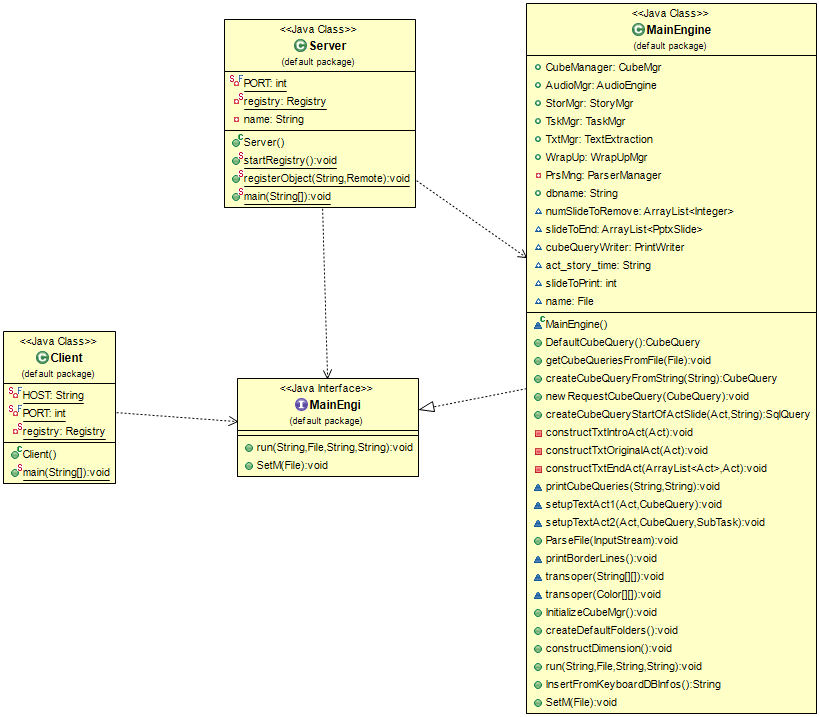
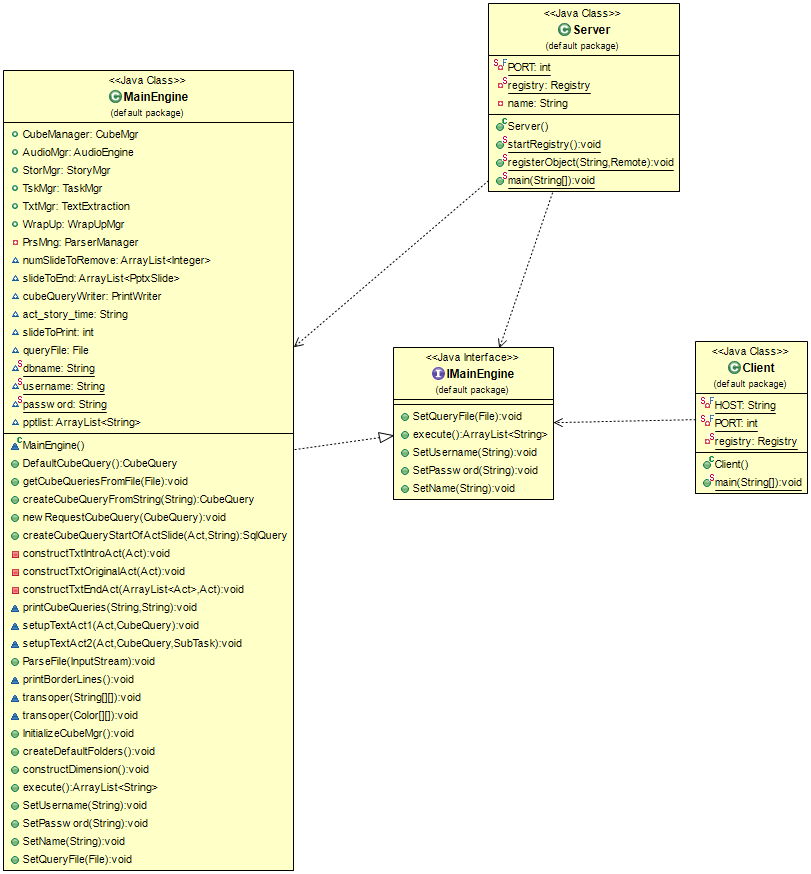
Changes on client server MainEngine and Interface

diff --git a/src/MainEngine.java b/src/MainEngine.java
@@ -41,7 +41,7 @@ import WrapUpMgr.PptxWrapUpMgr;
 import WrapUpMgr.WrapUpMgr;
 
 public class MainEngine extends UnicastRemoteObject implements
-MainEngi {
+IMainEngine {
     
 	
 	public CubeMgr CubeManager;
@@ -51,14 +51,19 @@ MainEngi {
 	public TextExtraction TxtMgr;
 	public WrapUpMgr WrapUp;
 	private ParserManager PrsMng;
-	public String dbname;
 	ArrayList<Integer> numSlideToRemove=new ArrayList<Integer>();
 	ArrayList<PptxSlide> slideToEnd=new ArrayList<PptxSlide>();
 	PrintWriter cubeQueryWriter;
 	String act_story_time;
 	int slideToPrint=0;
 	
-	File name;
+	
+	
+	File queryFile; //File with one or more queries
+	static String dbname; //Database Name
+    static String username;//Database username
+    static String password ;//Database password
+    ArrayList<String> pptlist = new ArrayList<String>();
    
 
 	
@@ -459,6 +464,9 @@ MainEngi {
         /*======== Set The Filename For PPTX ==========================*/
         StorMgr.getStory().setFinalResult(new PptxSlideshow());
         StorMgr.getStory().getFinalResult().setFilename("ppt/"+cubequery.name+".pptx");
+        
+        String pptpath = "ppt/"+cubequery.name+".pptx"; //PowerPoint path for query
+        pptlist.add(pptpath);
         
         /*======== Stat The Wrap UP ==========================*/
         WrapUp=new PptxWrapUpMgr();
@@ -1566,31 +1574,56 @@ MainEngi {
         this.ParseFile(getClass().getClassLoader().getResourceAsStream("resources/beta.txt"));/*Create Dimension,Cube*/
     }
     
-    public void run(String dbname,File f,String username,String password) throws RemoteException {
-        MainEngine MainEng=new MainEngine();
-        MainEng.InitializeCubeMgr();
-        MainEng.createDefaultFolders();
-        MainEng.CubeManager.CreateCubeBase(dbname,username,password);  
+    public  ArrayList<String> execute() throws RemoteException {
+        //MainEngine MainEng=new MainEngine();
+        InitializeCubeMgr();
+        createDefaultFolders();
+        CubeManager.CreateCubeBase(dbname,username,password);  
         //Me.ParseFile(Me.GetFileCmds());
-        MainEng.constructDimension();
+        constructDimension();
         //MainEng.NewRequestSqlQuery("");
-        MainEng.getCubeQueriesFromFile(new File("InputFiles/cubeQueries.ini"));/*Create Stories*/
+        getCubeQueriesFromFile(queryFile);
+        //MainEng.getCubeQueriesFromFile(new File("InputFiles/cubeQueries.ini"));/*Create Stories*/
+       
         //MainEng.getCubeQueriesFromFile(new File(args[0]));
         //MainEng.getCubeQueriesFromFile(new File("InputFiles/NativeAge.ini"));
 //      MainEng.newRequestCubeQuery(null);
         
         System.out.println("=======Finish======");
+        return pptlist;
+       // System.out.println(pptpath);
+      //  return pptpath;
         //MTTS.server.Mary.shutdown();
-        System.exit(0);
+        //System.exit(0);
     }
     
-    public String InsertFromKeyboardDBInfos(){
+    public void SetUsername(String uname)throws RemoteException{
+    	username = uname;
+    }
+    
+    public void SetPassword(String pw)throws RemoteException{
+    	password = pw;
+    }
+    
+    
+    public void SetName(String name)throws RemoteException{
+    	dbname = name;
+    }
+    
+    
+    public  void SetQueryFile(File qFile) throws RemoteException{
+    	queryFile = qFile;
+    }
+    
+    
+    /*public String InsertFromKeyboardDBInfos(){
     	dbname="adult_no_dublic";
     	return dbname;
-    }
+    }*/
+    
+    
 
-	@Override
-	public void SetM(File s) throws RemoteException {
+	/*public void SetM(File s) throws RemoteException {
 		name = s;
 
 		try {
@@ -1608,6 +1641,6 @@ MainEngi {
 			e.printStackTrace();
 		}
 		
-	}
+	}*/
 	
 }

diff --git a/src/Client.java b/src/Client.java
@@ -1,6 +1,7 @@
 import java.io.File;
 import java.rmi.registry.LocateRegistry;
 import java.rmi.registry.Registry;
+import java.util.ArrayList;
 import java.util.Scanner;
 
 
@@ -15,22 +16,43 @@ public class Client {
 
     
     public static void main(String[] args) throws Exception {
+    	ArrayList<String> pptlist = new ArrayList<String>();
+    	//Search InputFiles directory
+    	 File dir = new File("InputFiles");
+         String[] children = dir.list();
+         if (children == null) {
+            System.out.println("does not exist or is not a directory");
+         }
+         else {
+            for (int i = 0; i < children.length; i++) {
+               String filename = children[i];
+               System.out.println(filename);
+            }
+         }
+         
+
+   	
     	String dbname,username,password;
     	File f = new File("InputFiles/cubeQueries.ini"); 
     	Scanner in = new Scanner(System.in);
         // Search the registry in the specific Host, Port.
         registry = LocateRegistry.getRegistry(HOST, PORT);
         //LookUp for MainEngine on the registry
-        MainEngi service = (MainEngi) registry.lookup(MainEngi.class.getSimpleName());
+       IMainEngine service = (IMainEngine) registry.lookup(IMainEngine.class.getSimpleName());
+       service.SetQueryFile(f);
        System.out.println("Give me your database name");
        dbname = in.nextLine();
+       service.SetName(dbname);
        System.out.println("Give me your database username");
        username = in.nextLine();
+       service.SetUsername(username);
        System.out.println("Give me your database password");
        password = in.nextLine();
-       service.run(dbname,f,username,password);
-    	
-       
+       service.SetPassword(password);
+       pptlist = service.execute();
+       for(String x: pptlist){
+    	   System.out.println(x);
+       }
     }
 
 }

diff --git a/src/IMainEngine.java b/src/IMainEngine.java
@@ -1,0 +1,16 @@
+
+import java.io.File;
+import java.rmi.Remote;
+import java.rmi.RemoteException;
+import java.util.ArrayList;
+
+public interface IMainEngine extends Remote {
+
+	
+	public  void SetQueryFile(File qFile) throws RemoteException;
+	public ArrayList<String> execute()throws RemoteException; 
+	public void SetUsername(String uname)throws RemoteException;    
+	public void SetPassword(String pw)throws RemoteException;    
+	public void SetName(String name)throws RemoteException;
+	  
+}

diff --git a/src/Server.java b/src/Server.java
@@ -32,7 +32,7 @@ public class Server {
 	   public static void main(String[] args) throws Exception {
 	       System.out.println("Server starting...");
 	       startRegistry();
-	       registerObject(MainEngi.class.getSimpleName(), new MainEngine());
+	       registerObject(IMainEngine.class.getSimpleName(), new MainEngine());
 	 
 	       // Server was the start, and was listening to the request from the client.
 	       System.out.println("Server started!");
